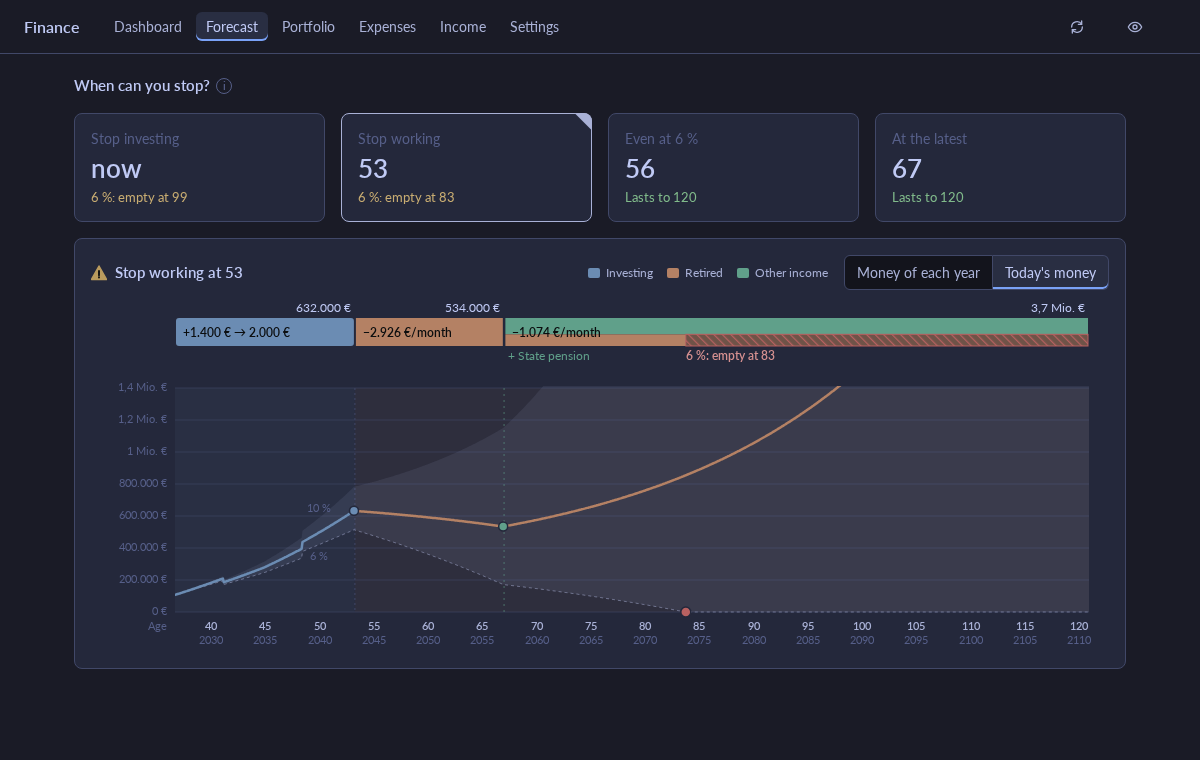
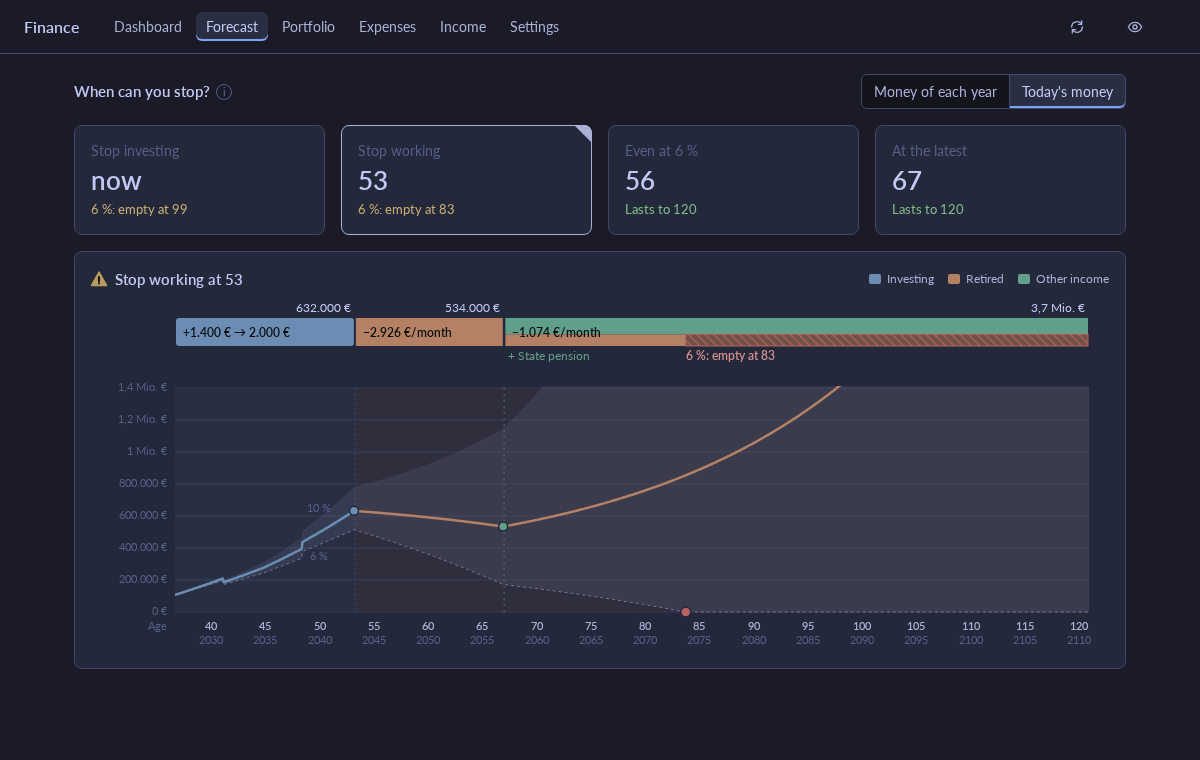
Move the Forecast money switch to the top of the page
"Money of each year | Today's money" sat in the picked plan's card head,
next to the plan name and the phase key, and wrapped to its own line on a
phone. It is a view setting for the whole page, like the plan picked, so
it now sits right of "When can you stop?". The card head keeps the plan
name and the phase key.

Changed region(s): [[0.0617, 0.0908, 0.9558, 0.3934], [0.4625, 0.1513, 0.4933, 0.1816]]

diff --git a/app/style.css b/app/style.css
@@ -881,6 +881,15 @@ main > div {
 /* Forecast: the answers to "When can you stop?", each a plan, as tiles;
    the picked plan's bar and chart in a card under them. Phases keep the
    chart colors: investing blue, retired orange, other income aqua. */
+/* The question, and on its right the money switch. */
+.answers-head {
+  display: flex;
+  align-items: center;
+  justify-content: space-between;
+  flex-wrap: wrap;
+  gap: 8px 16px;
+}
+
 .answers-head h2 {
   margin: 0;
 }

diff --git a/README.md b/README.md
@@ -419,9 +419,9 @@ they show what happens to the same plan when markets do worse or better. A
 red dot marks where the money runs out. Hovering a year, or the arrow keys
 on the chart, shows the three values.
 
-The switch above the bar shows the portfolio in today's money (the
-default: what it would buy now, with the inflation since the latest month
-taken out) or in the money of each year. The Path to FI chart on the
+The switch at the top of the page shows the portfolio in today's money
+(the default: what it would buy now, with the inflation since the latest
+month taken out) or in the money of each year. The Path to FI chart on the
 dashboard has the same switch; the choice is remembered in this browser,
 not in the data file.
 
